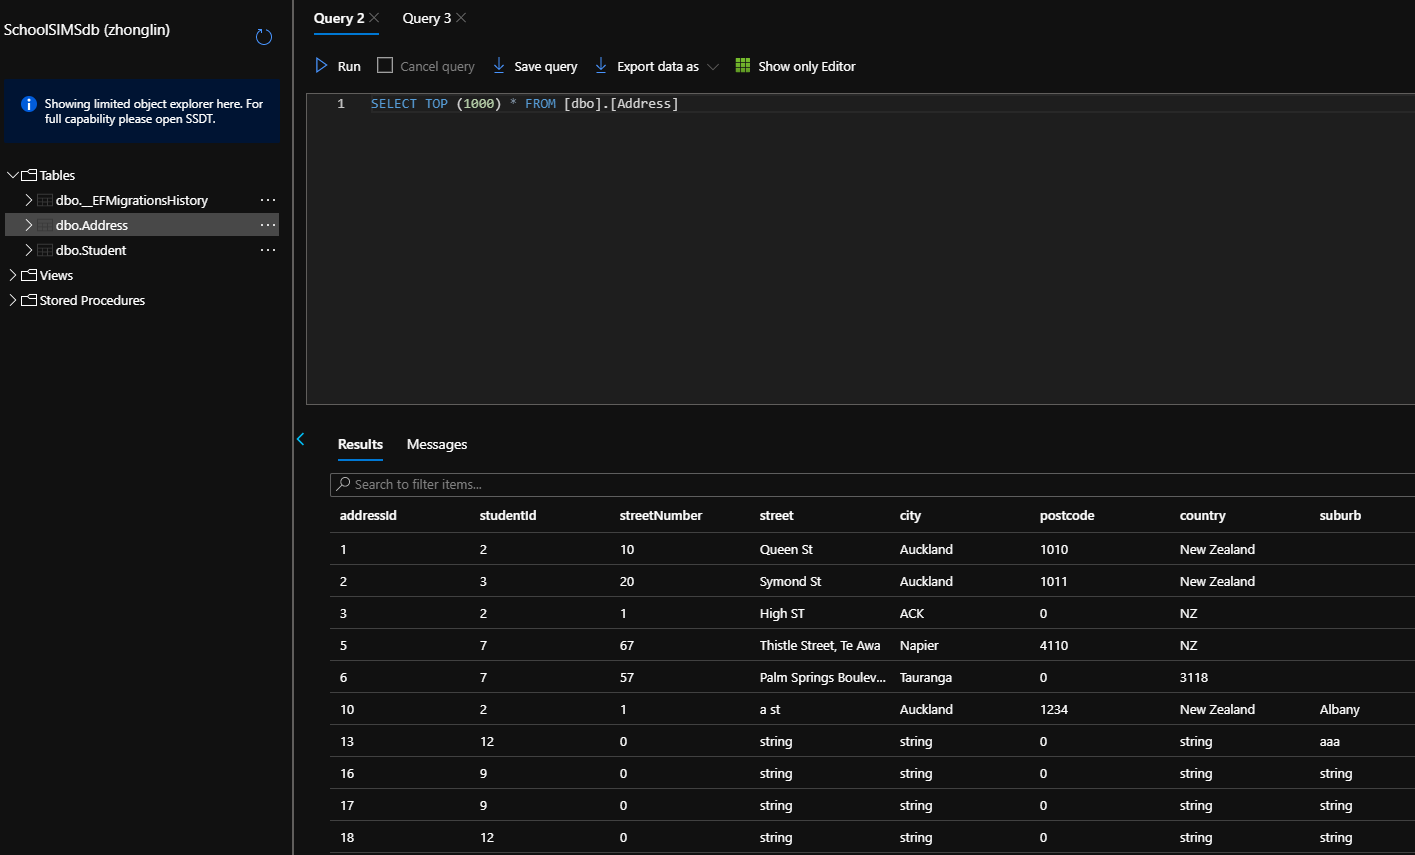
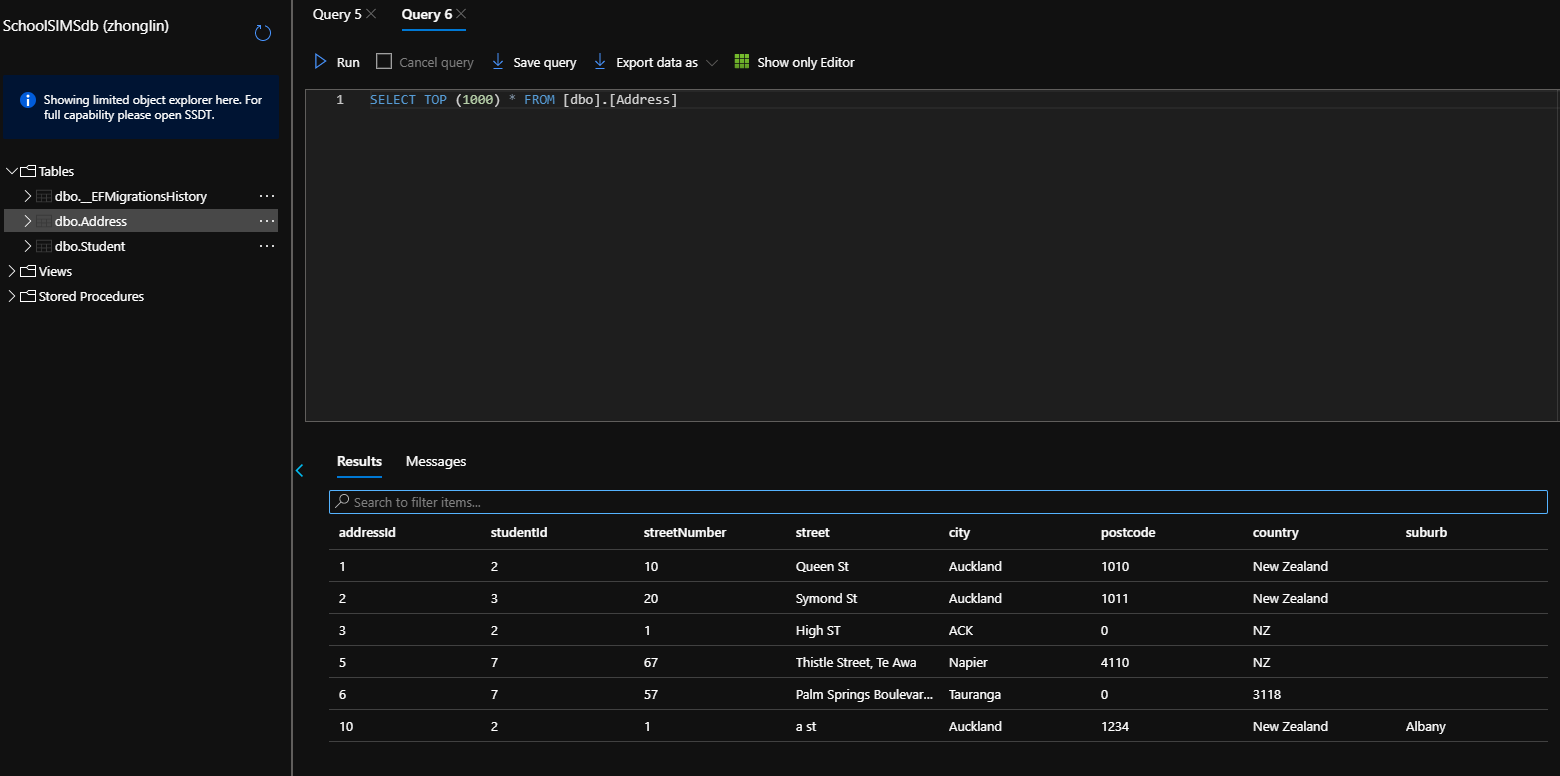
Update REAMME: change seeding data and explanation

diff --git a/README.md b/README.md
@@ -1,21 +1,22 @@
 Todo:
 
-- [ ] Test `Put /api/Students/{id}` and `PUT /api/Students/{studentId}/{addressId}/UpdateAddress`
 - [ ] More Explanations in section of API Endpoints 
-- [ ] Complete missing response string for each API
-- [ ] Add Table of Contents
-
-- [ ] Update and Elaborate seed data 
+- [ ] Abstract and Table of Contents
 - [ ] **All screenshot synced**
 - [ ] **All Published**
+- [ ] Double Check and Submit
+
+
 
 
 
 # 1. Azure Link
 
-Here is the URL of my APIs that have been hosted on Azure: https://msa-projects-phase1-schoolsims-webapi.azurewebsites.net/
+Here is the URL of my APIs that have been hosted on Azure:
 
+https://msa-projects-phase1-schoolsims-webapi.azurewebsites.net/
 
+<br/>
 
 # 2. Explanations of code
 
@@ -33,7 +34,7 @@ In this case,
 
 - The studentId was set as Foreign Key of Address Model.
 
-  
+  <br/>
 
 2.1.2 -> Adapt code so that **Student** table could have a one-to-many relationship with table **Address**.
 
@@ -46,15 +47,28 @@ In this case,
 - Virtual collection of addresses was added to student model;
 - Initialise the collection of addresses in the constructor.
 
-
+<br/>
 
 2.1.3 -> Showcases of data using Query editor for both tables with rows of example instances from Azure SQL Server.
 
 ![Annotation_StudentSQLExample](https://raw.githubusercontent.com/ZhonglinChen/MSA-2020-Phase1-BackEndDev-WebAPI-StudentSIMS/master/Images/Annotation_StudentSQLExample.png)
 
+As shown in the screenshot, four rows of student information is stored in the Student Table. They are 'Zhonglin', 'Roy', 'Ken' and 'Tom' with studentId= 2, 3, 7, 14 respectively. 
+
+<br/>
+
 ![Annotation_AddressSQLExample](https://raw.githubusercontent.com/ZhonglinChen/MSA-2020-Phase1-BackEndDev-WebAPI-StudentSIMS/master/Images/Annotation_AddressSQLExample.png)
 
+In the Address Table as the above screenshot shows, rows of address information are stored for students. There is a one-to-many( also could be one-to-zero) relationship between Student and Address, which just like the following table illustrates:
 
+| StudentId | FirstName | **Addresse**s                                                |
+| --------- | --------- | ------------------------------------------------------------ |
+| 2         | Zhonglin  | Address 1 (AddressId =1): 10 Queen St, Auckland, New Zealand, 1010 <br/>Address 2 (AddressId =3): 1 High ST, ACK, NZ, 0 <br/>Address 3 (AddressId =10): 1 a st, Auckland, New Zealand, 1234 |
+| 3         | Roy       | Address 1 (AddressId =2): 20 Symond St, Auckland, New Zealand, 1011 |
+| 7         | Ken       | Address 1 (AddressId =5): 67 Thistle Street, Te Awa, Napier, NZ, 4110<br/>Address 2 (AddressId =6): 57 Palm Springs Boulevard, Papamoa Beach, Tauranga, 3118, 0 |
+| 14        | Tom       | Empty                                                        |
+
+<br/>
 
 ## 2.2 API Implementations
 
